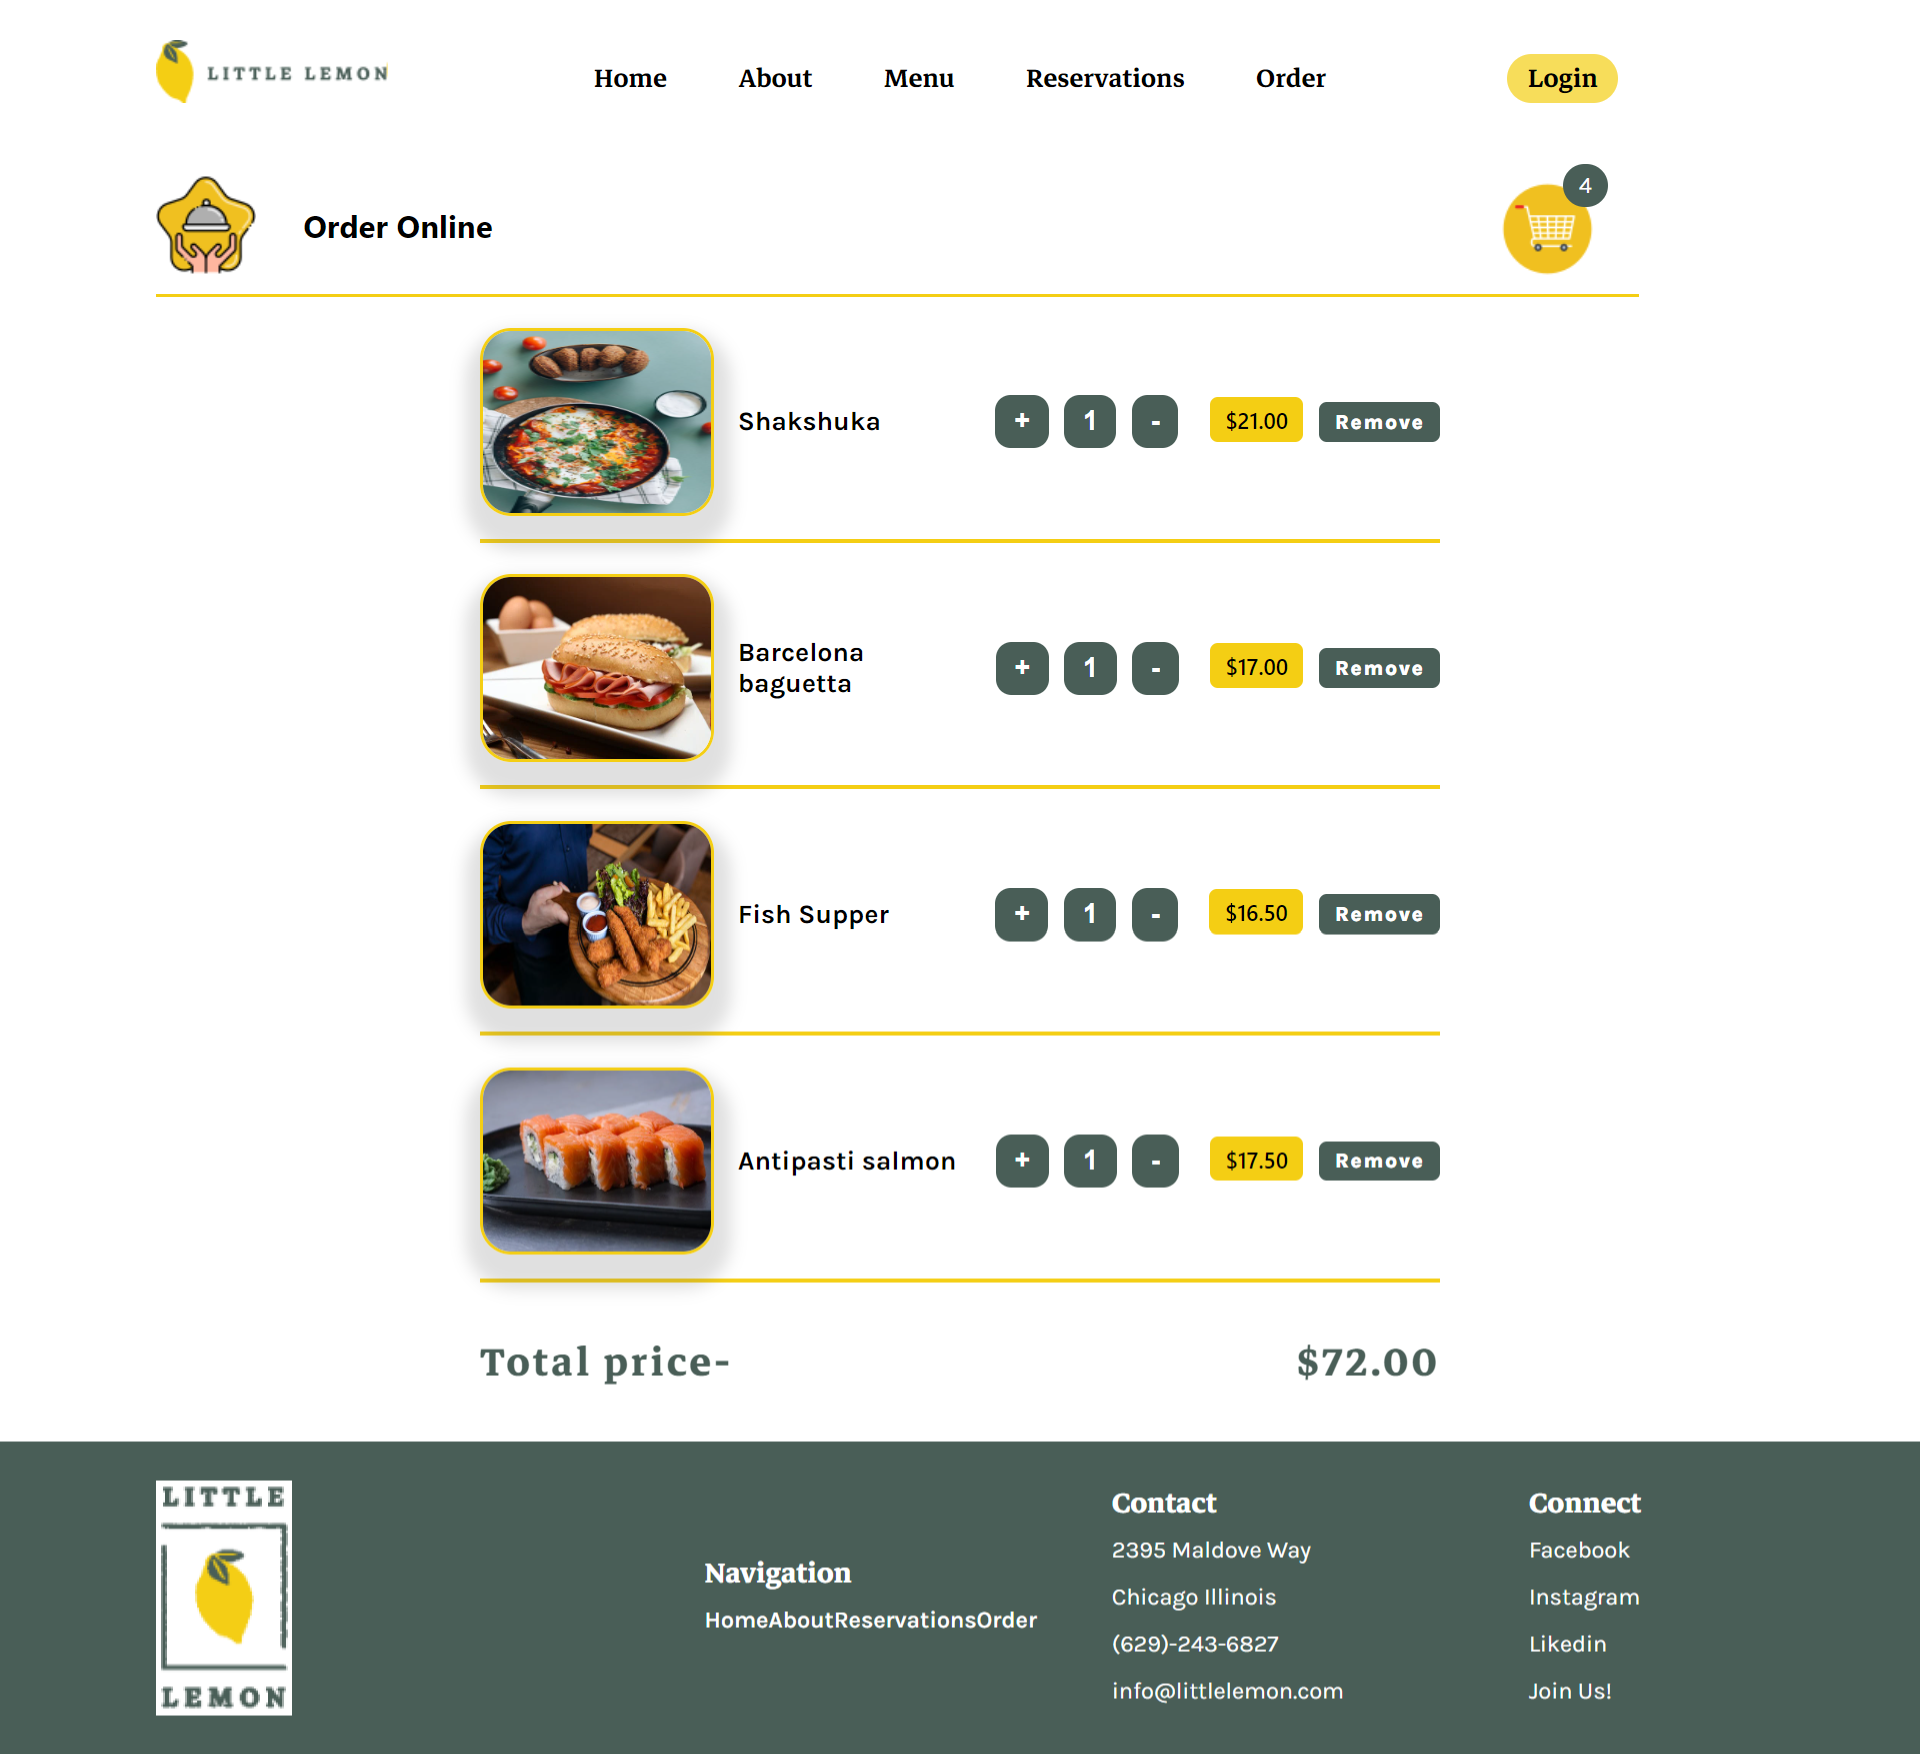
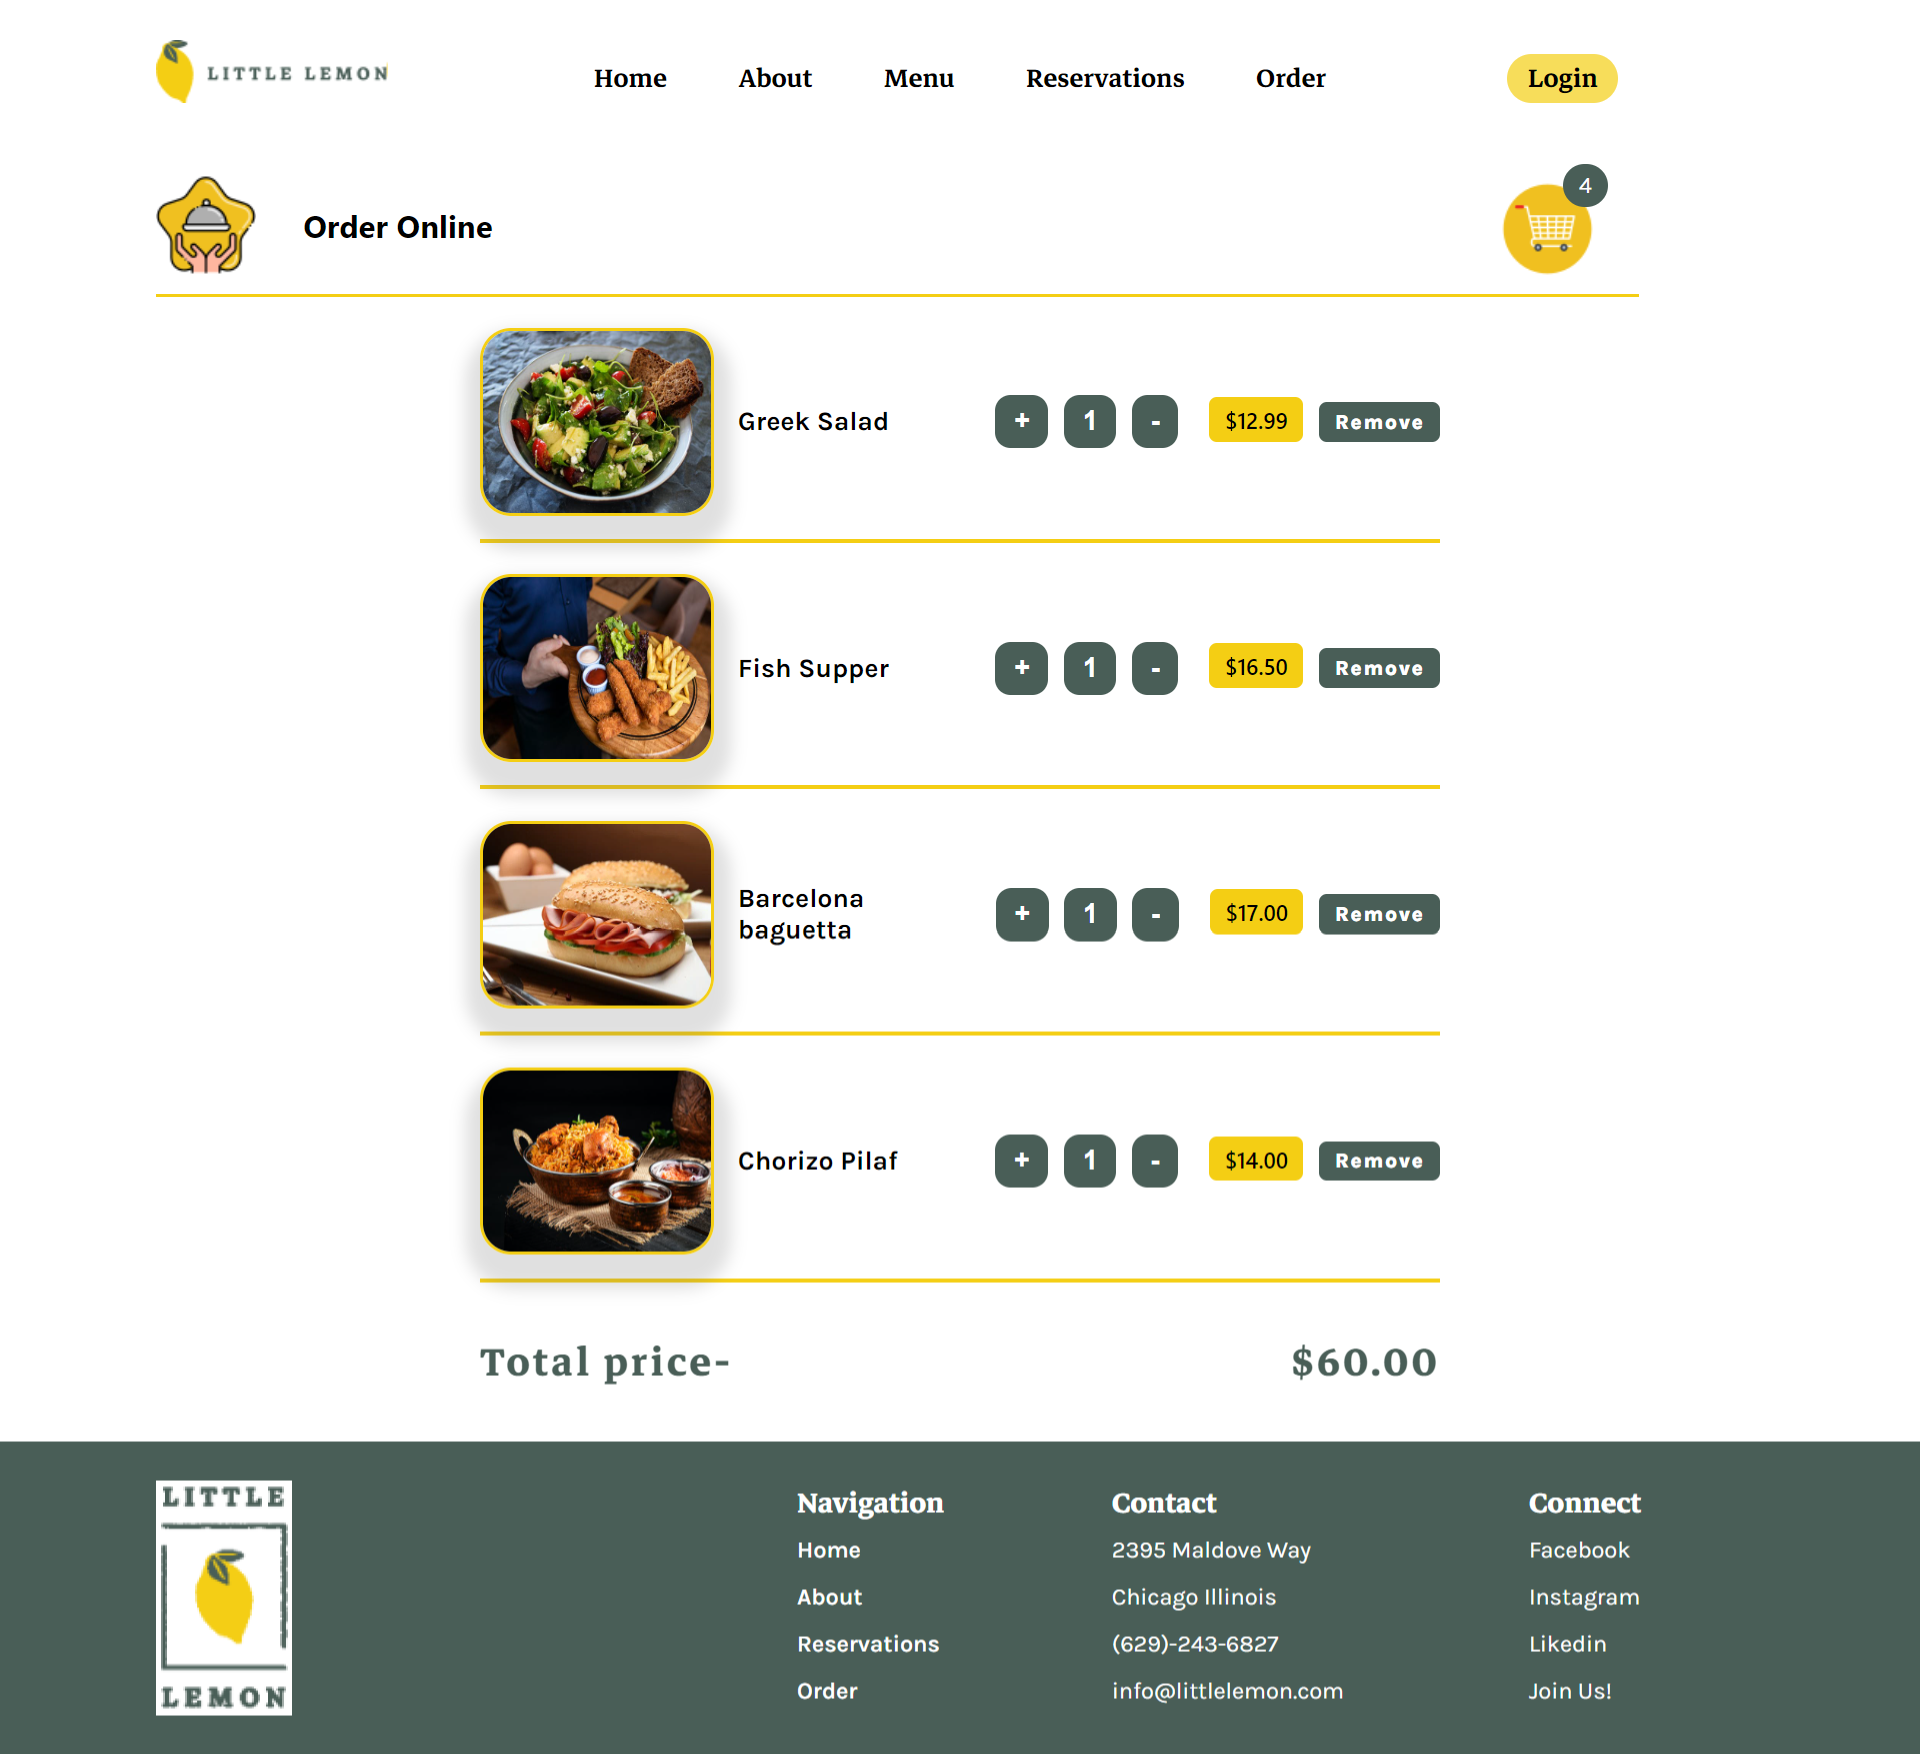
update readme

diff --git a/src/components/Footer.js b/src/components/Footer.js
@@ -3,68 +3,68 @@ import { Link } from "react-router-dom";
 import "../styles/footer.css"
 
 const Footer = () => {
-    return (
-        <footer>
-            <div className="footer-logo">
-                <img src={require("../assets/footer-logo.png")} alt="" />
-            </div>
-            <div className="footer-links" id="nav">
-                <div className="navigation">
-                    <h2>Navigation</h2>
-                    <ul>
-                        <Link to="/">
-                            <li>
-                                <p>Home</p>
-                            </li>
-                        </Link>
-                        <Link to="/about">
-                            <li>
-                                <p>About</p>
-                            </li>
-                        </Link>
-                        <Link to="/reservations">
-                            <li>
-                                <p>Reservations</p>
-                            </li>
-                        </Link>
-                        <Link to="/order-online">
-                            <li>
-                                <p>Order</p>
-                            </li>
-                        </Link>
-                    </ul>
-                </div>
-            </div>
-            <div className="footer-links" id="contact">
-                <div className="contact">
-                    <h2>Contact</h2>
-                    <p>2395 Maldove Way</p>
-                    <p>Chicago Illinois</p>
-                    <p>(629)-243-6827</p>
-                    <p>info@littlelemon.com</p>
-                </div>
-            </div>
-            <div className="footer-links" id="connect">
-                <div className="connect">
-                    <h2>Connect</h2>
-                    <ul>
-                        <li>
-                            <p>Facebook</p>
-                        </li>
-                        <li>
-                            <p>Instagram</p>
-                        </li>
-                        <li>
-                            <p>Likedin</p>
-                        </li>
-                        <li>
-                            <p>Join Us!</p>
-                        </li>
-                    </ul>
-                </div>
-            </div>
-        </footer>
-    )
+	return (
+		<footer>
+			<div className="footer-logo">
+				<img src={require("../assets/footer-logo.png")} alt="" />
+			</div>
+			<div className="footer-links" id="nav">
+				<div className="navigation">
+					<h2>Navigation</h2>
+					<ul>
+						<Link to="/">
+							<li>
+								<p>Home</p>
+							</li>
+						</Link>
+						<Link to="/about">
+							<li>
+								<p>About</p>
+							</li>
+						</Link>
+						<Link to="/reservations">
+							<li>
+								<p>Reservations</p>
+							</li>
+						</Link>
+						<Link to="/order-online">
+							<li>
+								<p>Order</p>
+							</li>
+						</Link>
+					</ul>
+				</div>
+			</div>
+			<div className="footer-links" id="contact">
+				<div className="contact">
+					<h2>Contact</h2>
+					<p>2395 Maldove Way</p>
+					<p>Chicago Illinois</p>
+					<p>(629)-243-6827</p>
+					<p>info@littlelemon.com</p>
+				</div>
+			</div>
+			<div className="footer-links" id="connect">
+				<div className="connect">
+					<h2>Connect</h2>
+					<ul>
+						<li>
+							<p>Facebook</p>
+						</li>
+						<li>
+							<p>Instagram</p>
+						</li>
+						<li>
+							<p>Likedin</p>
+						</li>
+						<li>
+							<p>Join Us!</p>
+						</li>
+					</ul>
+				</div>
+			</div>
+		</footer>
+	)
 }
 
 export default Footer

diff --git a/src/styles/footer.css b/src/styles/footer.css
@@ -39,9 +39,15 @@ footer{
 .footer-links{
     height: 20rem;
     display: flex;
+    flex-direction: column;
     align-items: center;
     justify-content: center;
     line-height: 3rem;
+}
+
+.navigation ul{
+    display: flex;
+    flex-direction: column;
 }
 
 .navigation ul li p:hover, #connect ul li p:hover{
